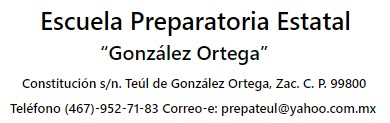
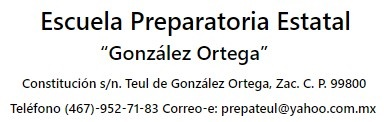
Correccion de errorres 18/09/2019

diff --git a/app/Http/Controllers/AlumnosController.php b/app/Http/Controllers/AlumnosController.php
@@ -26,15 +26,16 @@ class AlumnosController extends Controller
       $clave=$alumno1->id;
       $nombre=$alumno1->nombre;
       if (isset($clave)&&isset($nombre)) {
-        $CAlumno = Alumno::where('Clave_A',$alumno1->id)->get();
+        $CAlumno = Alumno::where('Clave_A',$clave)->get();
         if (count($CAlumno)==0){
-          return back()->with('msj',' algún dato no existe' );
+          return back()->with('msj',' Algún dato no existe' );
         }
         else {
           foreach ($CAlumno as $campo) {
             if ($campo->Nombre_A==$nombre) {
-                $Requisitos= Requisito::where('Clave_A',$CAlumno->Clave_A)->get();
-              return view('Alumnos.formdisable',compact('CAlumno'));
+              //return $CAlumno;
+              $Requisitos= Requisito::where('Clave_A',$CAlumno[0]->Clave_A)->get();
+              return view('Alumnos.formdisable',compact('CAlumno','Requisitos'));
             }
             else {
                 return back()->with('msj',' Datos no encontrados' );
@@ -50,29 +51,29 @@ class AlumnosController extends Controller
 
         if (count($CAlumno)==0){
           return back()->with('msj','La matrícula no existe' );
-      }
+          }
           else{
             $Requisitos= Requisito::where('Clave_A',$alumno1->id)->get();
 
-              return view('Alumnos.formdisable',compact('CAlumno','Requisitos'));
+            return view('Alumnos.formdisable',compact('CAlumno','Requisitos'));
           }
         }
 
 
-
-
-        else {$CAlumno = Alumno::where('Nombre_A', $alumno1->nombre)->get();
-        //return $CAlumno;
-        if (count($CAlumno)==0){
-          return back()->with('msj',' ese nombre no existe' );
-      }
-      else if(count($CAlumno)==1){
-          return view('Alumnos.formdisable',compact('CAlumno','alumno1'));
-        }
-      else {
-          return view('Alumnos.index',compact('CAlumno','alumno1'));
-      }
-
+        else {
+          $CAlumno = Alumno::where('Nombre_A', $alumno1->nombre)->get();
+          
+          if (count($CAlumno)==0){
+            return back()->with('msj',' El nombre ingresado no existe' );
+          }
+          else if(count($CAlumno)==1){
+            $Requisitos= Requisito::where('Clave_A',$CAlumno[0]->Clave_A)->get();
+            return view('Alumnos.formdisable',compact('CAlumno','alumno1','Requisitos'));
+          }
+          else {
+            //return 'aqui';
+            return view('Alumnos.index',compact('CAlumno','alumno1'));
+          }
 
         }
     }
@@ -99,7 +100,7 @@ class AlumnosController extends Controller
         //return $request;
 
         $alumno=new Alumno();
-        $alumno->Clave_A=$request['Clave_A'];
+        $alumno->Clave_A=$request['matricula'];
         $alumno->Nombre_A=$request['nombre'];
         $alumno->Nombre_P=$request['nombrepadre'];
         $alumno->Nombre_M=$request['nombremadre'];
@@ -120,7 +121,7 @@ class AlumnosController extends Controller
         $alumno->save();
 
         $requisito=new Requisito();
-        $requisito->Clave_A=$request['Clave_A'];
+        $requisito->Clave_A=$request['matricula'];
         $requisito->Requisito_A=$request['A'];
         $requisito->Requisito_B=$request['B'];
         $requisito->Requisito_C=$request['C'];
@@ -132,11 +133,11 @@ class AlumnosController extends Controller
         $requisito->save();
 
         $alumnoL=new usuarioalumno();
-        $alumnoL->Usuario=$request['Clave_A'];
+        $alumnoL->Usuario=$request['matricula'];
         $alumnoL->save();
 
         $campo=new ft_bach();
-        $campo->Clave_A=$request['Clave_A'];
+        $campo->Clave_A=$request['matricula'];
         $campo->Formación_Trabajo=$request2['ft1'];
         $campo->Bachillerato=$request2['bach1'];
         $campo->save();
@@ -155,17 +156,22 @@ class AlumnosController extends Controller
     public function edit(Request $alumno1)
 
     {
-
-        $ides=$alumno1['Clave_A'];
         //return $alumno1;
         $alumn="";
-        $alumns=Alumno::where([['Clave_A',$alumno1->id]])->get();
+        $alumns=Alumno::where([['Clave_A',$alumno1->Clave_A]])->get();
         foreach ($alumns as $row){
             $alumn=$row;
             $alumn->fill($alumno1->all());
-
         }
         $alumn->save();
+
+        $req="";
+        $reqs=Requisito::where([['Clave_A',$alumno1->Clave_A]])->get();
+        foreach ($reqs as $row){
+            $req=$row;
+            $req->fill($alumno1->all());
+        }
+        $req->save();
 
        return redirect('alumnosconsulta')->with('msj2','Alumno modificado correctamente');
 
@@ -185,8 +191,6 @@ class AlumnosController extends Controller
      */
     public function update($id)
     {
-        //return $id;
-
         $CAlumno = Alumno::where('Clave_A', $id)->get();
         $Requisitos = Requisito::where('Clave_A', $id)->get();
         return view('Alumnos.show',compact('CAlumno','Requisitos'));
@@ -205,6 +209,6 @@ class AlumnosController extends Controller
         Requisito::where('Clave_A',$id)->delete();
        $alumnos=Alumno::get();
         //return  view('Alumnos.index',compact('alumnos'));
-       return redirect('/alumnosconsulta')->with('msj2','Alumno Eliminado Correctamente');
+       return redirect('/alumnosconsulta')->with('msj2','Alumno eliminado correctamente');
     }
 }

diff --git a/app/Http/Controllers/DocenteController.php b/app/Http/Controllers/DocenteController.php
@@ -87,9 +87,9 @@ class DocenteController extends Controller
      */
     public function store(TagStoreRequestDocentes $request)
     {
-        return 'Hello';
+        //return $request;
         $docente=new Docentes();
-        $docente->Clave_D=$request['Clave_D'];
+        $docente->Clave_D=$request['Clave'];
         $docente->Nombre=$request['nombre'];
         $docente->Domicilio=$request['direccion'];
         $docente->Telefono=$request['telefono'];
@@ -98,7 +98,7 @@ class DocenteController extends Controller
         $docente->save();
 
         $docenteL=new usuariomaestro();
-        $docenteL->Usuario=$request['Clave_D'];
+        $docenteL->Usuario=$request['Clave'];
         $docenteL->Password='12345';
         $docenteL->save();
 
@@ -133,23 +133,16 @@ class DocenteController extends Controller
      */
     public function edit(request $docente1)
     {
-        //return $docente1->input('clave1');
-        $NombreN=$docente1->input('nombre1');
-        $DomicilioN=$docente1->input('domicilio1');
-        $TelefonoN=$docente1->input('telefono1');
-        //$ides=$docente1->input('clave1');
-        //$docente = Docente::where('Clave', $docente1->clave1)->first();
-        $ides=$docente1['clave1'];
-        $alumn="";
-        $alumns=Docentes::where([['Clave_D',$docente1->clave1]])->get();
-        foreach ($alumns as $row){
-            $alumn=$row;
-            $alumn->fill($docente1->all());
+        $doce="";
+        $doces=Docentes::where([['Clave_D',$docente1->clave1]])->get();
+        //return $doces;
+        foreach ($doces as $row){
+            $doce=$row;
+            $doce->fill($docente1->all());
         }
-        $alumn->save();
+        $doce->save();
 
-        //return 'paso';
-        //return view('Docente.create')->with('msj1','Docente modificado exitosamente');
+
         return Redirect('docenteconsulta')->with('msj1','Docente modificado exitosamente' );
 
     }

diff --git a/resources/views/Inscripcion/create.blade.php b/resources/views/Inscripcion/create.blade.php
@@ -79,7 +79,7 @@
             </div>
 
             <div style="position: absolute;top: 62%; left: 25%; width: 26%;height:53%;  background-color:#aaa">
-                <p><input type="text" placeholder="1800110001" value="{{ old('Clave_A') }}" required pattern="[1-9]{2}[0]{2}[1]{2}[0-9]{4}" id="id" name="Clave_A" style="font-size:105%; width: 95%"/></p>
+                <p><input type="text" placeholder="1800110001" value="{{ old('Clave_A') }}" required pattern="[1-9]{2}[0]{2}[1]{2}[0-9]{4}" id="id" name="matricula" style="font-size:105%; width: 95%"/></p>
                 <p><input type="text" placeholder="Velazquez Torres Ximena" value="{{ old('nombre') }}" required pattern="[a-zA-ZàáâäãåąčćęèéêëėįìíîïłńòóôöõøùúûüųūÿýżźñçčšžÀÁÂÄÃÅĄĆČĖĘÈÉÊËÌÍÎÏĮŁŃÒÓÔÖÕØÙÚÛÜŲŪŸÝŻŹÑßÇŒÆČŠŽ∂ð ,.'-]{2,48}" id="nombre" name="nombre" style="font-size:105%; width: 95%;" /></h1>
                 <p><input type="text" placeholder="Torres Cortes Maria" value="{{ old('nombremadre') }}" required pattern="[a-zA-ZàáâäãåąčćęèéêëėįìíîïłńòóôöõøùúûüųūÿýżźñçčšžÀÁÂÄÃÅĄĆČĖĘÈÉÊËÌÍÎÏĮŁŃÒÓÔÖÕØÙÚÛÜŲŪŸÝŻŹÑßÇŒÆČŠŽ∂ð ,.'-]{2,48}" id="nombremadre" name="nombremadre" style="font-size:105%; width: 95%;"/></p>
                 <p><input type="text" placeholder="Velazquez Luna Abel" value="{{ old('nombrepadre') }}" required pattern="[a-zA-ZàáâäãåąčćęèéêëėįìíîïłńòóôöõøùúûüųūÿýżźñçčšžÀÁÂÄÃÅĄĆČĖĘÈÉÊËÌÍÎÏĮŁŃÒÓÔÖÕØÙÚÛÜŲŪŸÝŻŹÑßÇŒÆČŠŽ∂ð ,.'-]{2,48}" id="nombrepadre" name="nombrepadre" style="font-size:105%; width: 95%;"/></p>

diff --git a/app/Http/Controllers/ConsultarCalificacionesCEController.php b/app/Http/Controllers/ConsultarCalificacionesCEController.php
@@ -54,37 +54,29 @@ class ConsultarCalificacionesCEController extends Controller
     public function show(Request $request)
     {
         //return "hola";
-        $AL = CalificacionesParciales::where('ClaveA', $request->id)->get();
-        $nombreA=Alumno::where('id', $request->id)->get('Nombre_A');
-        $Materia=CalificacionesParciales::where('ClaveA', $request->id)->get('ClaveM');
+        $AL = CalificacionesParciales::where('Clave_A', $request->id)->get();
+        $nombreA=Alumno::where('Clave_A', $request->id)->get('Nombre_A');
+        $Materia=CalificacionesParciales::where('Clave_A', $request->id)->get('ClaveM');
         $Materia1=array();
         $Materia2=array();
-        $mat=Materia::all('Clave','Nombre');
-        //return $mat;
+        $mat=Materia::all('Clave_M','Nombre');
+
         foreach ($mat as $ma) {
             foreach ($Materia as $M) {
-                if($ma->Clave==$M->ClaveM)
+                if($ma->Clave_M==$M->ClaveM)
                 {
                     array_push($Materia1,$ma->Nombre);
                     
                 }
             }
         }
-            
-                
-            
-          //  print $Materia[$i][0];
-            //array_push($Materia1,Materia::where('Clave',$Materia[$i][0])->get());
-        
-        //return $Materia1;
 
         if (count($AL)==0)
         {
-
-            return back()->with('msj',' Esa matricula no existe');
+            return back()->with('msj',' La matrícula no existe');
         }
         else{
-            
+            //return $Materia1;
             view('Calificaciones.TablaC1',compact('AL','nombreA','Materia1'));
             return view('Calificaciones.TablaC1',compact('AL','nombreA','Materia1',));
             }

diff --git a/resources/views/RegistrarDocentes/create.blade.php b/resources/views/RegistrarDocentes/create.blade.php
@@ -43,7 +43,7 @@
                 <p style="font-size:130%; position:  absolute;top: 70%; left: 10%">{{('Email:')}}</p>
                 <p style="font-size:130%; position:  absolute;top: 85%; left: 10%">{{('CURP:')}}</p>
 
-                <p><input type="text" placeholder="31145" value="{{ old('Clave_D') }}" required id="Clave_D" name="Clave_D" style="font-size:105%; width: 65%; position:  absolute;top: 10%; left: 30%"/></p>
+                <p><input type="text" placeholder="31145" value="{{ old('Clave_D') }}" required id="Clave_D" name="Clave" style="font-size:105%; width: 65%; position:  absolute;top: 10%; left: 30%"/></p>
                 <p><input type="text" placeholder="Angélica Luna" value="{{ old('nombre') }}" required pattern="[a-zA-ZàáâäãåąčćęèéêëėįìíîïłńòóôöõøùúûüųūÿýżźñçčšžÀÁÂÄÃÅĄĆČĖĘÈÉÊËÌÍÎÏĮŁŃÒÓÔÖÕØÙÚÛÜŲŪŸÝŻŹÑßÇŒÆČŠŽ∂ð ,.'-]{2,48}" id="nombre" name="nombre" style="font-size:105%; width: 65%; position:  absolute;top: 25%; left: 30%" /></h1>
                 <p><input type="text" placeholder="Lomas #24" value="{{ old('direccion') }}" required id="direccion" name="direccion" style="font-size:105%; width: 65%; position:  absolute;top: 40%; left: 30%"/></p>
                 <p><input type="tel" placeholder="4673562817" value="{{ old('telefono') }}" required pattern="[0-9]{10}" id="telefono" name="telefono" style="font-size:105%; width: 65%; position:  absolute;top: 55%; left: 30%"/></p>

diff --git a/resources/views/materias/vista.blade.php b/resources/views/materias/vista.blade.php
@@ -49,13 +49,13 @@
           <p><input type="number" name="Horas"  min="1"  max="12" value="{{ $materia->Horas }}" required="true" style="font-size:105%; width: 65%; position:  absolute;top: 74%; left: 30%" disabled="true"></p>
         
 
-         {!!Form::submit('Modificar',['class'=>'btn btn-primary', 'style'=>'width: 20%; position:  absolute;top: 105%; left: 55%'])!!}
+         {!!Form::submit('Modificar',['class'=>'btn btn-primary', 'style'=>'width: 15%; position:  absolute;top: 105%; left: 0%'])!!}
          {!! form::close() !!}
         {!!Form::open(['route' => ['materia.destroy',$materia->Clave_M],'method'=>'DELETE'])!!}
-        <td>{!!Form::submit('Eliminar',['class'=>'btn btn-danger','style'=>'width: 20%; position:  absolute;top: 105%; left: 80%'])!!}</td>
+        <td>{!!Form::submit('Eliminar',['class'=>'btn btn-danger','style'=>'width: 15%; position:  absolute;top: 105%; left: 17%'])!!}</td>
                 {!! Form::close()!!}
         <a href="http://127.0.0.1:8000/materia">
-                <button class="btn btn-success " style="position: absolute;top: 105%;left:0%">Cancelar</button></a></div>
+                <button class="btn btn-success " style="position: absolute;top: 105%;left:85%">Cancelar</button></a></div>
     <div>
 
 </body>

diff --git a/app/Http/Controllers/Arrastrarcontroller.php b/app/Http/Controllers/Arrastrarcontroller.php
@@ -35,7 +35,7 @@ class Arrastrarcontroller extends Controller
 
                 $Materias_Grupo=materia_grupo::where('Semestre','=','SEGUNDO SEMESTRE')->orWhere('Semestre','=','CUARTO SEMESTRE')->orWhere('Semestre','=','SEXTO SEMESTRE')->get('Clave_M');
                 if (count($Materias_Grupo)==0){
-                    return redirect('/ControlEscolarInicio')->with('MsjERR','No tiene materias registradas');
+                    return redirect('/ControlEscolarInicio')->with('MsjERR','Primero debe crear los grupos');
                 }
                 else{
 
@@ -119,8 +119,9 @@ class Arrastrarcontroller extends Controller
             }
             if ($fecha>='07' and $fecha<='12'){
                 $Materias_Grupo=materia_grupo::where('Semestre','=','PRIMER SEMESTRE')->orWhere('Semestre','=','TERCER SEMESTRE')->orWhere('Semestre','=','QUINTO SEMESTRE')->get('Clave_M');
+                //return $Materias_Grupo;
                 if (count($Materias_Grupo)==0){
-                    return redirect('/ControlEscolarInicio')->with('MsjERR','No tiene materias registradas');
+                    return redirect('/ControlEscolarInicio')->with('MsjERR','Primero debe crear los grupos');
                 }
                 else{
 

diff --git a/resources/views/Alumnos/index.blade.php b/resources/views/Alumnos/index.blade.php
@@ -43,18 +43,13 @@
             <td align="justify">{{ $alumno->Telefono_T }}</td>
             <td align="justify">{{ $alumno->Edad}}</td>
             <td align="justify">{{ $alumno->Email}}</td>
-            {!!Form::open(['route' => ['Alumnos.update',$alumno->id],'method'=>'PUT'])!!}
+            {!!Form::open(['route' => ['Alumnos.update',$alumno->Clave_A],'method'=>'PUT'])!!}
             <td>{!!Form::submit('Modificar',['class'=>'btn btn-primary'])!!}</td>
             {!! Form::close()!!}
             
-            {!!Form::open(['route' => ['Alumnos.destroy',$alumno->id],'method'=>'DELETE'])!!}
-            {!!Form::submit('Eliminar',['class'=>'btn btn-danger'])!!}
-            {!! Form::close()!!}
-                      </div>
-                    </div>
-                </div>
-            </div></td>-->
-            {!!Form::open(['route' => ['Alumnos.destroy',$alumno->id],'method'=>'DELETE'])!!}
+            
+            </td>
+            {!!Form::open(['route' => ['Alumnos.destroy',$alumno->Clave_A],'method'=>'DELETE'])!!}
             <td>{!!Form::submit('Eliminar',['class'=>'btn btn-danger'])!!}</td>
             {!! Form::close()!!}
 

diff --git a/resources/views/Inscripcion/show.blade.php b/resources/views/Inscripcion/show.blade.php
@@ -162,7 +162,7 @@ th {
               <td align="justify">{{ $row->Requisito_D}}</td>
           </tr>
           <tr>
-              <th   align="center">E) 6 Fotografias tamaño infantil,blanco y negro(no instantáneas)</th>
+              <th   align="center">E) 6 Fotografias tamaño infantil,blanco y negro (no instantáneas)</th>
 
               <td  align="justify">{{ $row->Requisito_E}}</td>
           </tr>
@@ -180,7 +180,7 @@ th {
           </tr>
 
           <tr>
-              <th  align="center">H) Firmar de conformidad padres y alumno en la hoja se solicitud de inscripcion</th>
+              <th  align="center">H) Firmar de conformidad padres y alumno en la hoja se solicitud de inscripción</th>
 
               <td align="justify">{{ $row->Requisito_H}}</td>
           </tr>
@@ -222,7 +222,7 @@ width: 20px;
 
       				@endforeach
       		</table>
-            <p>Teúl de González Ortega, Zac.a <?php echo date("d/m/Y");?> </p>
+            <p>Teul de González Ortega, Zac.a <?php echo date("d/m/Y");?> </p>
 </center>
           <center>
             <br><br>

diff --git a/app/Http/Controllers/compromisoEstudianteController.php b/app/Http/Controllers/compromisoEstudianteController.php
@@ -19,7 +19,7 @@ class compromisoEstudianteController extends Controller
      
         $compromisos=compromisoEstudiante::take(100)->get();
         
-         return view('compromisos.index',compact('compromisos'));
+        return view('compromisos.index',compact('compromisos'));
      
           // return view('mostrar',compact('compromisos'));
     }
@@ -72,17 +72,10 @@ class compromisoEstudianteController extends Controller
         
             $compromiso->save();
        
-        
-
-      
-       
-
        }else{
-                        $c='';
-
-                    return redirect()->route('compromisos.index')->with('status',$c);
-
-            }
+            $c='';
+            return redirect()->route('compromisos.index')->with('status',$c);
+        }
         }
            $compromisos=compromisoEstudiante::take(100)->get();
             return redirect()->route('compromisos.index')->with('status',$compromisos);

diff --git a/resources/views/Alumnos/formdisable.blade.php b/resources/views/Alumnos/formdisable.blade.php
@@ -43,7 +43,7 @@
             </div>
 
             <div style="position: absolute;top: 62%; left: 24.9%; width: 25%;height:53%;background-color:#aaa">
-                <p><input type="text" required readonly pattern="[1-9]{2}[0]{2}[1]{2}[0-9]{4}" name="id" value="{{$alumno->Clave_A}}" style="font-size:105%; width: 95%"/></p>
+                <p><input type="text" required readonly pattern="[1-9]{2}[0]{2}[1]{2}[0-9]{4}" name="Clave_A" value="{{$alumno->Clave_A}}" style="font-size:105%; width: 95%"/></p>
 
                 <p><input type="text" required readonly id="nombr" pattern="[a-zA-ZàáâäãåąčćęèéêëėįìíîïłńòóôöõøùúûüųūÿýżźñçčšžÀÁÂÄÃÅĄĆČĖĘÈÉÊËÌÍÎÏĮŁŃÒÓÔÖÕØÙÚÛÜŲŪŸÝŻŹÑßÇŒÆČŠŽ∂ð ,.'-]{2,48}" name="Nombre_A" value="{{$alumno->Nombre_A}}"style="font-size:105%; width: 95%;" /></h1>
 

diff --git a/resources/views/Alumnos/form.blade.php b/resources/views/Alumnos/form.blade.php
@@ -52,7 +52,7 @@
             </div>
 
             <div style="position: absolute;top: 62%; left: 24.9%; width: 25%;height:53%;background-color:#aaa">
-                <p><input type="text" required  pattern="[1-9]{2}[0]{2}[1]{2}[0-9]{4}" name="id" value="{{$alumno->Clave_A}}" style="font-size:105%; width: 95%"/></p>
+                <p><input type="text" required  pattern="[1-9]{2}[0]{2}[1]{2}[0-9]{4}" name="Clave_A" value="{{$alumno->Clave_A}}" style="font-size:105%; width: 95%"/></p>
 
                 <p><input type="text" required  id="nombr" pattern="[a-zA-ZàáâäãåąčćęèéêëėįìíîïłńòóôöõøùúûüųūÿýżźñçčšžÀÁÂÄÃÅĄĆČĖĘÈÉÊËÌÍÎÏĮŁŃÒÓÔÖÕØÙÚÛÜŲŪŸÝŻŹÑßÇŒÆČŠŽ∂ð ,.'-]{2,48}" name="Nombre_A" value="{{$alumno->Nombre_A}}"style="font-size:105%; width: 95%;" /></p>
 
